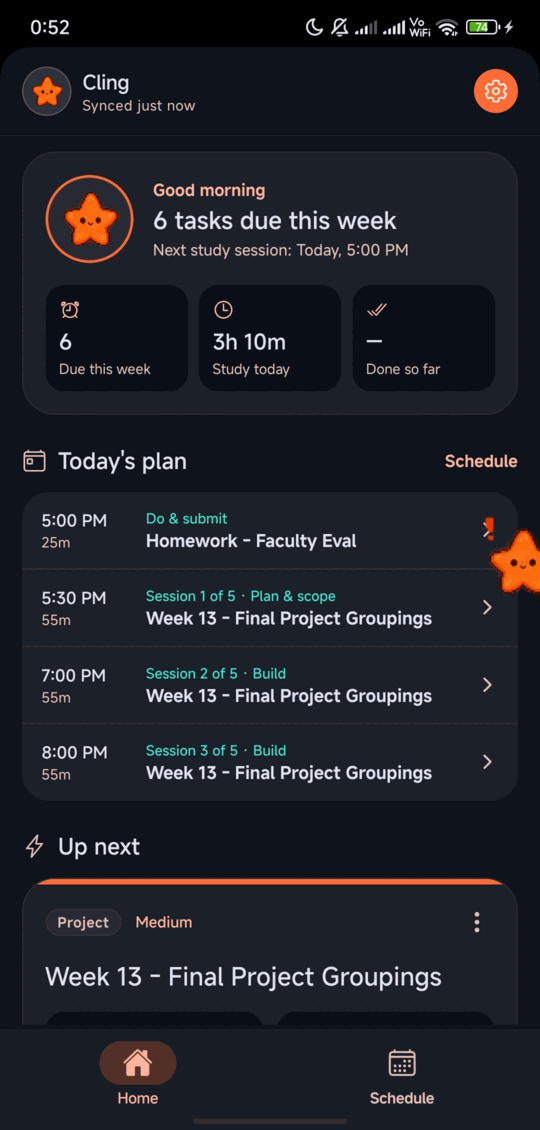
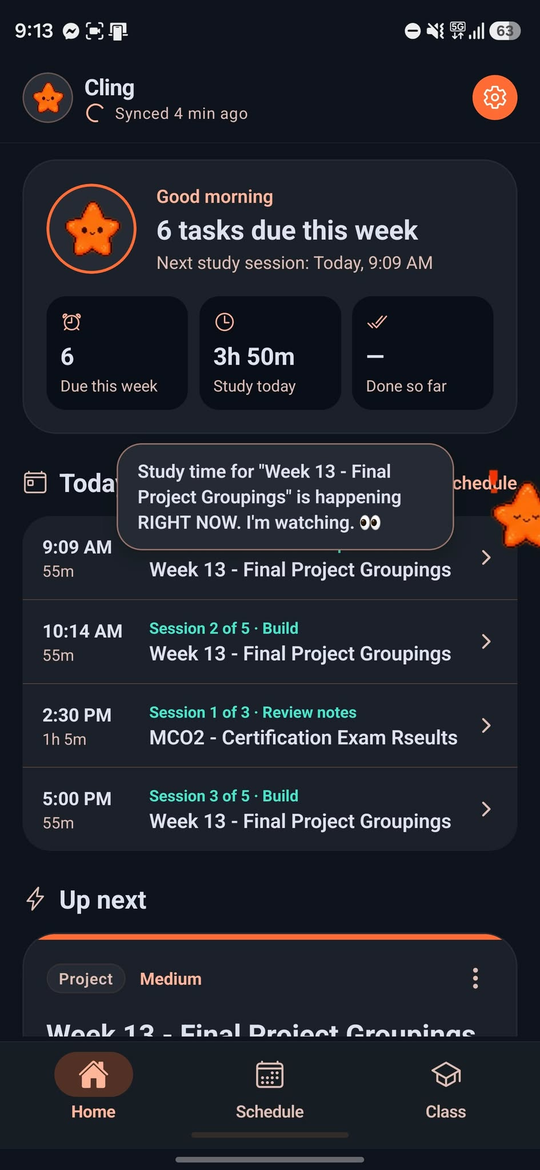
push readme and frontend idk

diff --git a/site/index.html b/site/index.html
@@ -46,11 +46,11 @@
     .rows h3 { font: 700 21px/1.25 var(--serif); margin: 0; }
     .rows p { margin: 0; color: var(--ink-2); max-width: 38em; }
 
-    .shots { display: grid; grid-template-columns: repeat(3, minmax(0, 1fr)); gap: 28px; }
+    .shots { display: grid; grid-template-columns: repeat(5, minmax(0, 1fr)); gap: 18px; }
     .shots figure { margin: 0; }
     .shots img { display: block; width: 100%; height: auto; border-radius: 22px; border: 1px solid var(--rule); background: #0f131c; }
-    .shots figcaption { margin-top: 12px; font-size: 14.5px; color: var(--ink-2); }
-    .shots figcaption b { display: block; color: var(--ink); font: 700 17px var(--serif); margin-bottom: 2px; }
+    .shots figcaption { margin-top: 12px; font-size: 13.5px; line-height: 1.45; color: var(--ink-2); }
+    .shots figcaption b { display: block; color: var(--ink); font: 700 16px var(--serif); margin-bottom: 2px; }
 
     .releases { margin: 0; padding: 0; list-style: none; }
     .rel { display: grid; grid-template-columns: 150px 1fr auto; gap: 24px; align-items: baseline; padding: 20px 0; border-top: 1px solid var(--rule); }
@@ -111,7 +111,7 @@
 
       <section id="about">
         <h2>What it does</h2>
-        <p class="kicker">Four things, done without asking you to set anything up.</p>
+        <p class="kicker">Five things, done without asking you to set anything up.</p>
         <ul class="rows">
           <li>
             <h3>It decides what's urgent</h3>
@@ -122,12 +122,16 @@
             <p>Work is split into sessions of about an hour, spread out so you finish a day early, and fitted between your calendar events. Drag a session somewhere else and the rest of the plan rearranges itself around it.</p>
           </li>
           <li>
+            <h3>It knows your classes</h3>
+            <p>Add them by hand or snap a photo of your Certificate of Registration and Cling reads the schedule for you. You check it before it saves. Study sessions are never planned over class time, and classes show up on your Google Calendar too.</p>
+          </li>
+          <li>
             <h3>It works without a signal</h3>
             <p>Assignments, your plan and your reminders are all saved on the phone. It only goes online when you sign in or ask for fresh data.</p>
           </li>
           <li>
             <h3>Cling stays with you</h3>
-            <p>A little star can float over your other apps. Tap it to ask what's next or to plan study time, and drag it to the bottom of the screen to send it away.</p>
+            <p>A little star can float over your other apps and pop up now and then: a class about to start, a deadline, or a reminder to sleep when an exam is close. Tap it to ask what's next or to plan study time, and drag it to the bottom of the screen to send it away.</p>
           </li>
         </ul>
       </section>
@@ -136,9 +140,11 @@
         <h2>On the phone</h2>
         <p class="kicker">Screenshots from a real device, with real coursework.</p>
         <div class="shots">
-          <figure><img src="shots/home.png" width="540" height="1130" loading="lazy" alt="Home screen: the week at a glance, today's study sessions and the top-priority assignment"><figcaption><b>Home</b>The week at a glance, today's sessions and what to start next.</figcaption></figure>
-          <figure><img src="shots/schedule.png" width="540" height="1130" loading="lazy" alt="Schedule screen listing study sessions by day"><figcaption><b>Schedule</b>Sessions by day. Move one, finish one, or block off a day.</figcaption></figure>
-          <figure><img src="shots/chat.png" width="540" height="1130" loading="lazy" alt="Chat with Cling offering quick replies"><figcaption><b>Cling</b>Ask what's next, or tell it when you're busy.</figcaption></figure>
+          <figure><img src="shots/home.png" width="540" height="1170" loading="lazy" alt="Home screen: the week at a glance, today's study sessions, and Cling's speech bubble reminding you a study session has started"><figcaption><b>Home</b>The week at a glance, today's sessions, and Cling speaking up.</figcaption></figure>
+          <figure><img src="shots/schedule.png" width="540" height="1170" loading="lazy" alt="Schedule screen listing proposed study blocks by day"><figcaption><b>Schedule</b>Sessions by day. Move one, finish one, or block off a day.</figcaption></figure>
+          <figure><img src="shots/class.png" width="540" height="1170" loading="lazy" alt="Class screen showing the weekly class timetable by day"><figcaption><b>Classes</b>Your timetable. Study time is planned around it.</figcaption></figure>
+          <figure><img src="shots/camera.png" width="540" height="1170" loading="lazy" alt="Add classes sheet with Take photo, Choose from gallery and Add manually"><figcaption><b>Scan your COR</b>Snap it and Cling reads the schedule for you.</figcaption></figure>
+          <figure><img src="shots/chat.png" width="540" height="1170" loading="lazy" alt="Chat with Cling listing upcoming tasks with quick replies"><figcaption><b>Cling</b>Ask what's next, or tell it when you're busy.</figcaption></figure>
         </div>
       </section>
 

diff --git a/README.md b/README.md
@@ -9,13 +9,15 @@
   An Android app that works offline, with a small star called <b>Cling</b> that nudges you.
 </p>
 
-<p align="center">
-  <img src="docs/images/home.png" width="230" alt="Home screen">
-  &nbsp;
-  <img src="docs/images/schedule.png" width="230" alt="Schedule screen">
-  &nbsp;
-  <img src="docs/images/chat.png" width="230" alt="Chat with Cling">
-</p>
+<table align="center">
+  <tr>
+    <td align="center"><img src="docs/images/home.png" width="160" alt="Home screen with Cling's speech bubble"><br><sub><b>Home</b></sub></td>
+    <td align="center"><img src="docs/images/schedule.png" width="160" alt="Schedule screen"><br><sub><b>Schedule</b></sub></td>
+    <td align="center"><img src="docs/images/class.png" width="160" alt="Class timetable by day"><br><sub><b>Classes</b></sub></td>
+    <td align="center"><img src="docs/images/camera.png" width="160" alt="Add classes: take a photo of your COR, choose one, or type it in"><br><sub><b>Scan your COR</b></sub></td>
+    <td align="center"><img src="docs/images/chat.png" width="160" alt="Chat with Cling"><br><sub><b>Chat</b></sub></td>
+  </tr>
+</table>
 
 ## What it does
 
